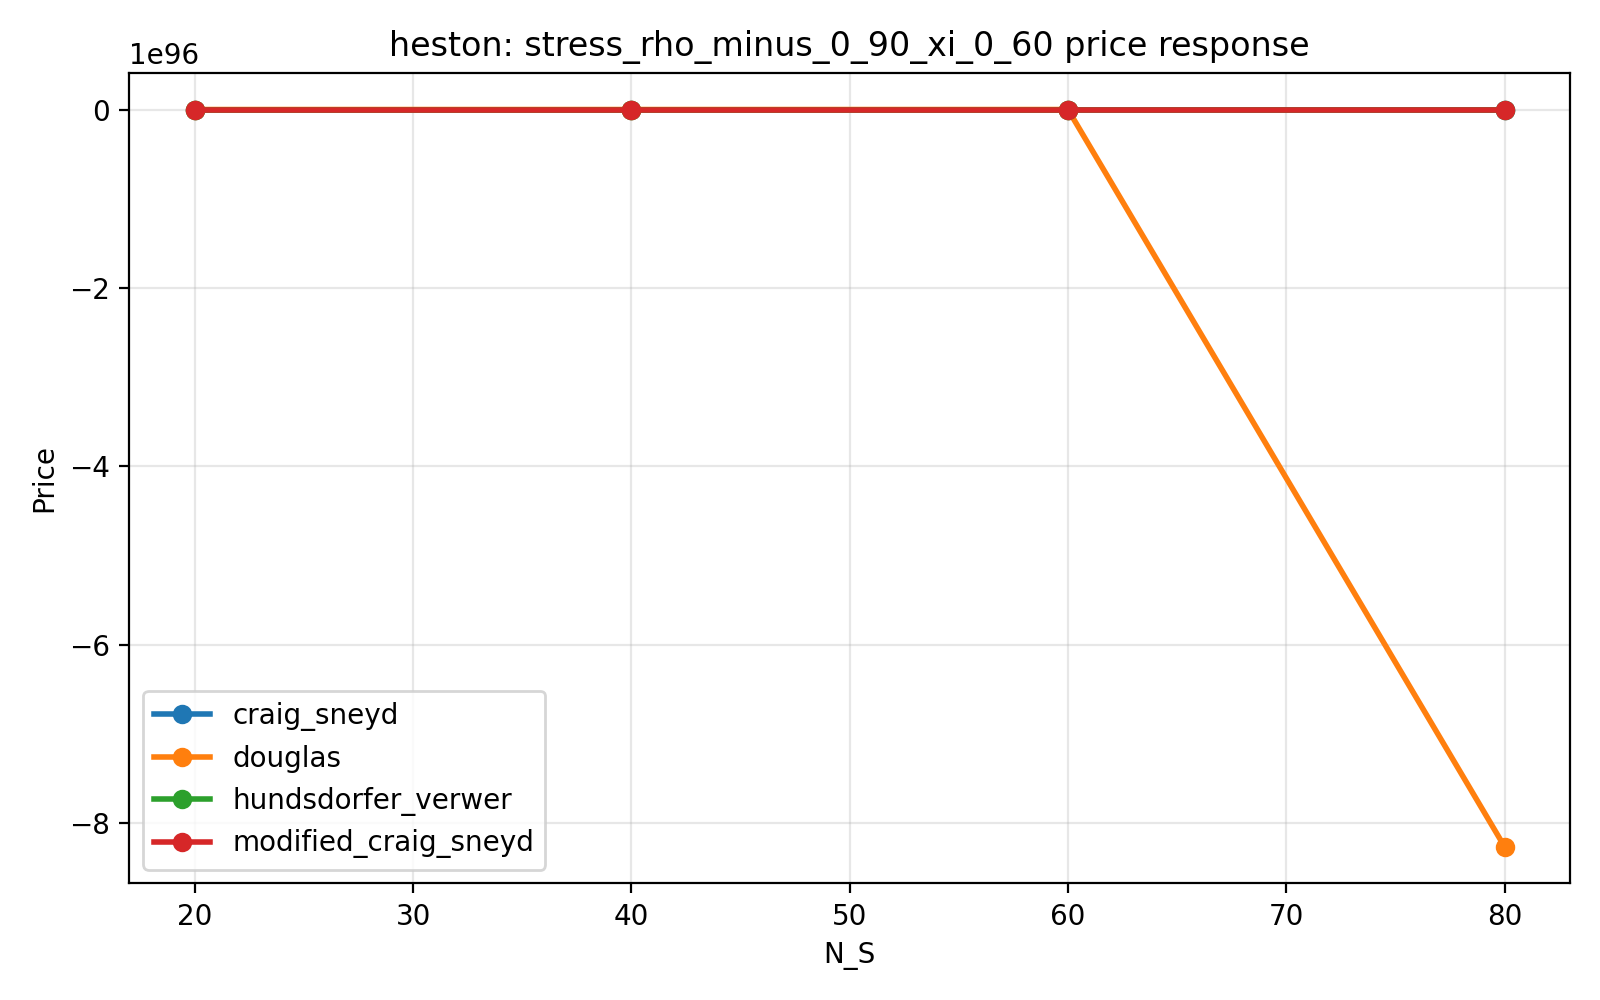
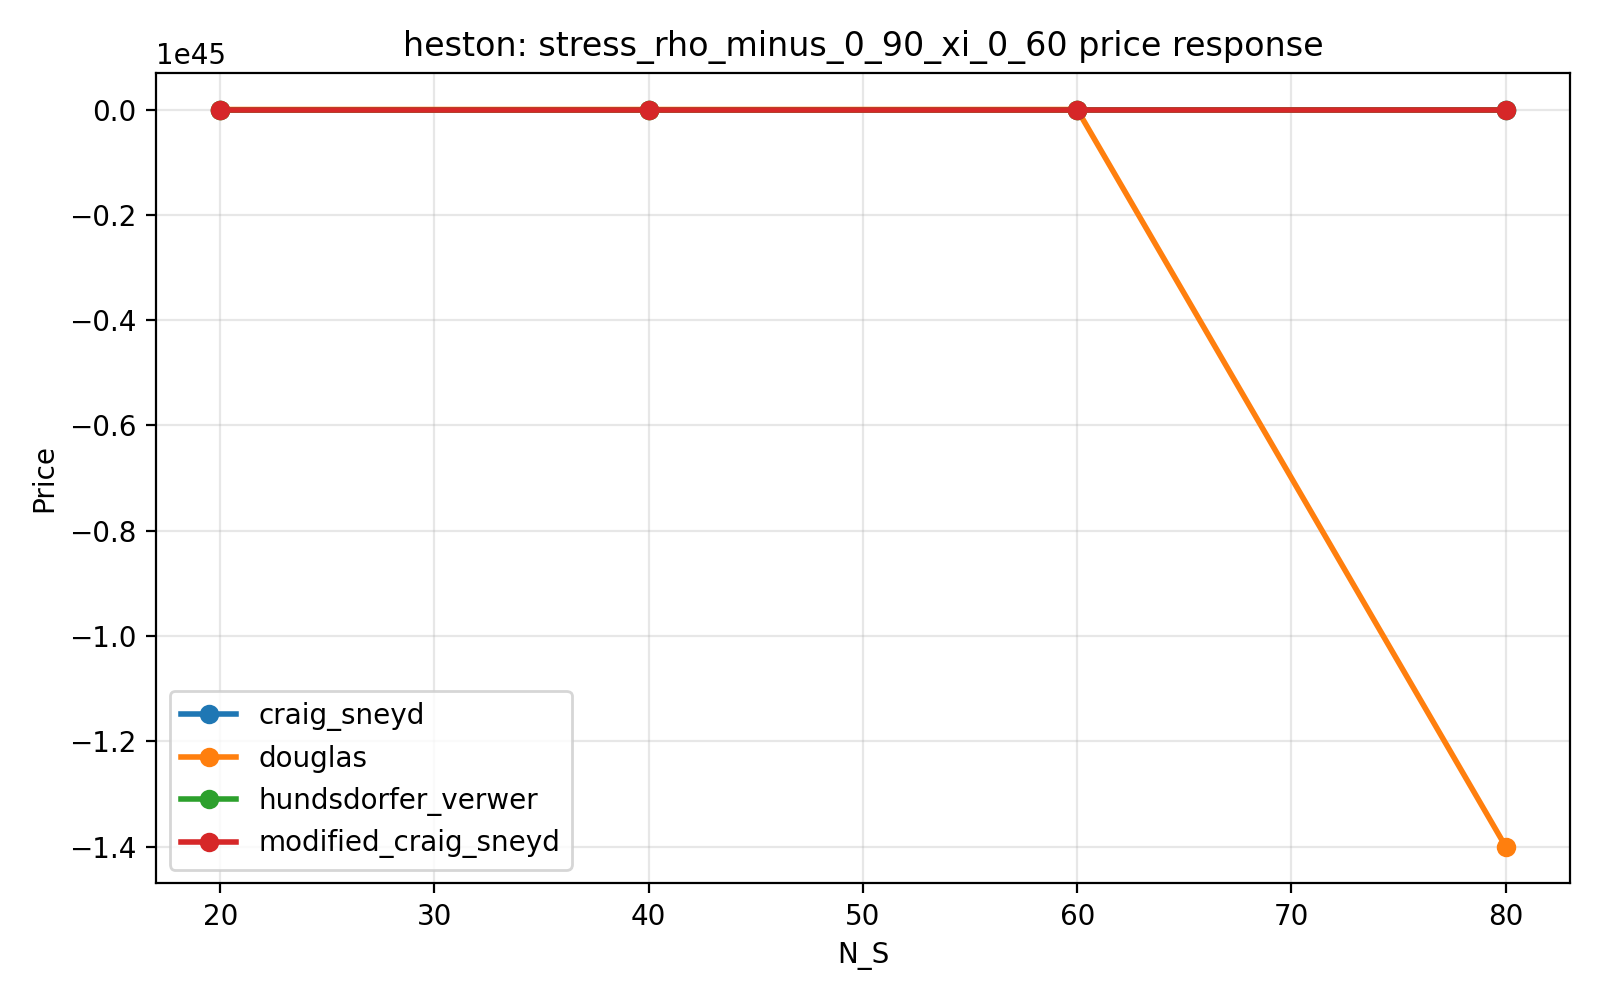
Update Heston parameters to calibrated values and regenerate convergence results

diff --git a/scripts/run_convergence_test.py b/scripts/run_convergence_test.py
@@ -47,21 +47,21 @@ BSM_PARAMS = {
 HESTON_PARAMS = {
     "r": 0.05,
     "q": 0.0,
-    "kappa": 1.0,
-    "theta": 0.04,
-    "xi": 0.20,
-    "rho": -0.50,
-    "v0": 0.04,
+    "kappa": 10.0,
+    "theta": 0.01,
+    "xi": 0.19,
+    "rho": -0.90,
+    "v0": 0.01,
 }
 
 HESTON_STRESS_PARAMS = {
     "r": 0.05,
     "q": 0.0,
-    "kappa": 0.80,
-    "theta": 0.04,
-    "xi": 0.60,
-    "rho": -0.90,
-    "v0": 0.09,
+    "kappa": 8.0,
+    "theta": 0.02,
+    "xi": 0.30,
+    "rho": -0.95,
+    "v0": 0.02,
 }
 
 MERTON_PARAMS = {
